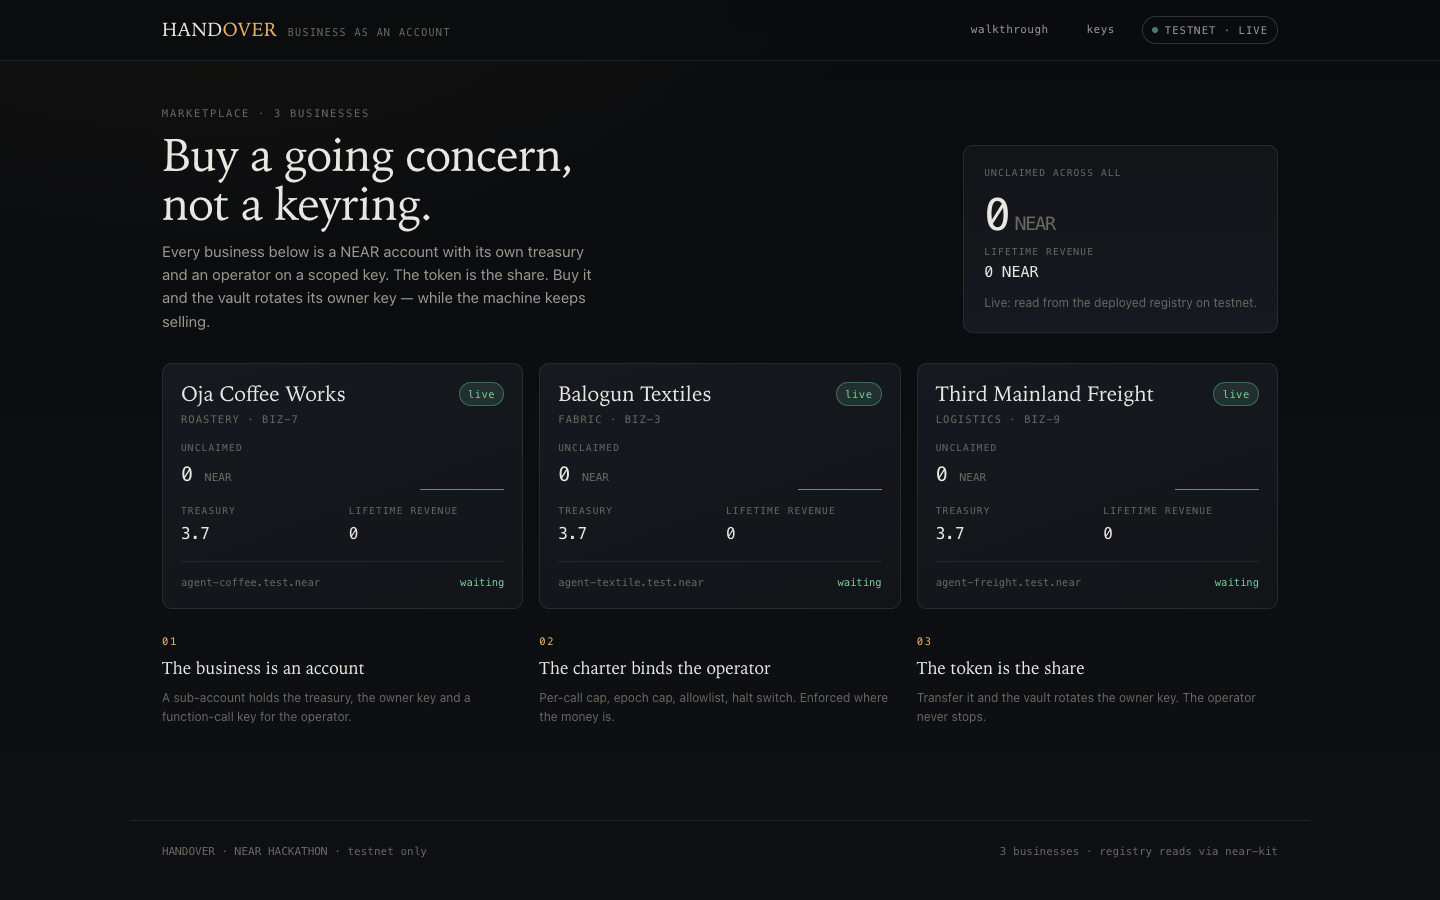
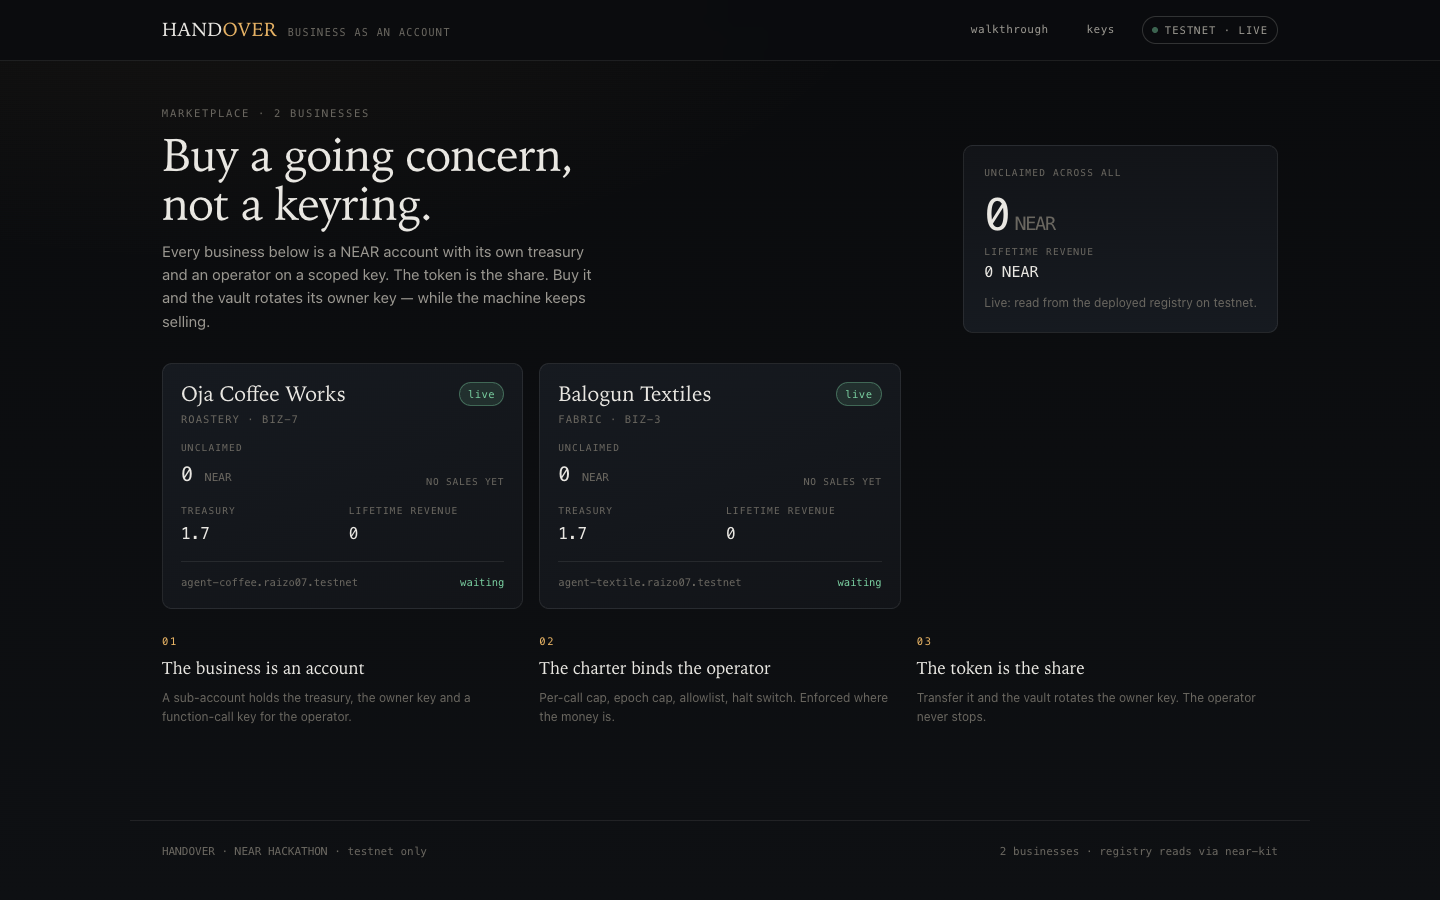
deploy to testnet: registry + two businesses live
- reg.raizo07.testnet deployed (214 KB), vault code stored (162 KB)
- biz-7 and biz-3 minted as real sub-accounts with owner + operator keys
- MIN_MINT_DEPOSIT lowered 4 -> 2 NEAR after measuring: a vault's 162 KB wasm
  costs ~1.66 NEAR of storage stake, so 4 was over-charging by half
- deploy script: --businesses N to seed within a balance, fixed done-message
- live mode verified against the testnet registry in a headless browser
- README/DEPLOYED: real addresses, measured costs, honest '2 of 3 seeded'

diff --git a/contracts/registry/src/lib.rs b/contracts/registry/src/lib.rs
@@ -19,8 +19,10 @@ use near_sdk::{
 };
 
 /// Deposit required to mint. Covers sub-account creation + vault wasm storage + state.
-/// The real cost is measured after deployment and published in the README.
-const MIN_MINT_DEPOSIT: u128 = 4_000_000_000_000_000_000_000_000; // 4 NEAR
+/// Measured on testnet 2026-11-10: the vault wasm is 162 KB, i.e. ~1.62 NEAR of storage
+/// stake at 1 NEAR / 100 KB, plus the account and its state. 2 NEAR is that cost with a
+/// little room left in the vault as working balance.
+const MIN_MINT_DEPOSIT: u128 = 2_000_000_000_000_000_000_000_000; // 2 NEAR
 /// Attached to `set_holder` so the vault can pay for the new access key's storage.
 const ROTATION_DEPOSIT: u128 = 50_000_000_000_000_000_000_000; // 0.05 NEAR
 const OPERATOR_ALLOWANCE: u128 = 500_000_000_000_000_000_000_000; // 0.5 NEAR

diff --git a/README.md b/README.md
@@ -5,11 +5,19 @@
 *The rulebook a business runs under is called its **charter**. The repo directory keeps an
 older name; everything user-facing says HANDOVER.*
 
-> **Status — read this first.** The two contracts are written and tested (28 Rust tests,
-> including 4 that deploy real wasm into a real NEAR VM). The frontend is built and runs on
-> a local simulation of those contracts. **Nothing is deployed to testnet yet** — there is
-> no live contract address in this repo, and this README does not claim one. The
-> "real vs simulated" section below is exact.
+> **Status — read this first.** Both contracts are written and tested (28 Rust tests,
+> including 4 that deploy real wasm into a real NEAR VM), and they are **deployed on
+> testnet**:
+>
+> | | |
+> |---|---|
+> | Registry | [`reg.raizo07.testnet`](https://testnet.nearblocks.io/address/reg.raizo07.testnet) |
+> | Businesses | [`biz-7.reg.raizo07.testnet`](https://testnet.nearblocks.io/address/biz-7.reg.raizo07.testnet) · [`biz-3.reg.raizo07.testnet`](https://testnet.nearblocks.io/address/biz-3.reg.raizo07.testnet) |
+> | Deployer | `raizo07.testnet` |
+>
+> The frontend runs against seeded demo data by default and reads this registry when
+> `VITE_REGISTRY_CONTRACT` is set. No mainnet contract exists — the "real vs simulated"
+> section below is exact.
 
 ![Marketplace](docs/screens/marketplace.png)
 
@@ -62,27 +70,31 @@ Requires Node 20+ and Rust stable. No wallet, no faucet, no funds.
    `make demo` (or `cd web && npm ci && npm run dev` for the dev server)
    → opens `http://localhost:4173`: three businesses, a `DEMO DATA` banner, no wallet prompt.
 
-3. **Watch the charter block the agent**
+3. **See the live testnet registry instead of demo data**
+   `VITE_REGISTRY_CONTRACT=reg.raizo07.testnet npm run build` (in `web/`)
+   → the badge changes to `TESTNET · LIVE` and the businesses come from chain, not fixtures.
+
+4. **Watch the charter block the agent**
    On `/b/biz-7`, drag the *per-call cap* slider to about `0.20` →
    the line under it changes live to "the operator's next 0.31 NEAR payment **is rejected
    (E20)**". Press **replay operator** → the spend is rejected, a receipt drawer opens with
    the reverted call, and the activity feed records a struck-through row.
 
-4. **Halve the cap, then spend inside it**
+5. **Halve the cap, then spend inside it**
    Set the cap to `0.50`, press **replay operator** → the payment settles, the epoch meter
    advances. The same button, two outcomes, decided by one number.
 
-5. **Halt the agent**
+6. **Halt the agent**
    Press **halt operator** → the receipt shows `DeleteKey(...)`. Press **replay operator**
    again → `E23`, because the key no longer exists. Press **resume** to re-arm it.
 
-6. **Buy a business**
+7. **Buy a business**
    Press **sell this business** on any business → generate an owner key (a real ed25519
    keypair in your browser), **download it** (the flow blocks until you do), sign →
    the rotation settles in two beats: `rotation_pending`, then `rotation_applied`, and the
    page states what the seller now sees: `Access key does not exist`.
 
-7. **Inspect any receipt**
+8. **Inspect any receipt**
    Every action opens a drawer with the `EVENT_JSON` the contract emits and the action list.
    No number in the UI is unexplained.
 
@@ -96,11 +108,14 @@ make deploy-sandbox  # full rehearsal against a local NEAR node
 make deploy          # real testnet run, reading .env
 ```
 
-The sandbox rehearsal is the one I have executed: it deploys the registry (214 KB), stores
-the vault wasm in registry state (162 KB), mints three businesses — each a real sub-account
-with a vault, a full-access owner key and a function-call operator key — then reads all of it
-back. Pointing the app at that node with `VITE_REGISTRY_CONTRACT` renders the same data from
-chain:
+It has now been run for real on testnet: registry `reg.raizo07.testnet` (214 KB wasm), vault
+wasm stored in registry state (162 KB), and **two** businesses minted. Measured cost per
+business: **≈1.66 NEAR** of storage for the vault contract (166 KB) plus the account itself;
+the third business is unseeded only because the deployer account had 10 NEAR and each mint
+takes 2. Fund it with ~3 more NEAR and `make deploy` mints the third (the script is
+idempotent and skips what already exists).
+
+The same app pointed at that registry with `VITE_REGISTRY_CONTRACT` renders live chain data:
 
 ![Live mode](docs/screens/live.png)
 
@@ -118,7 +133,7 @@ named parent.
 | Browser app | **Real** React/Vite build, served from `dist/`. |
 | Chain reads in the browser | **Verified.** Set `VITE_REGISTRY_CONTRACT` (and `VITE_RPC_URL` for a local node) and the app reads the registry through `near-kit`. Rehearsed end-to-end against a local NEAR node: three businesses, real operator accounts, no demo banner. |
 | Chain writes in the browser | **Not wired.** Writes show "needs a connected wallet" instead of pretending. |
-| Deployed contracts | **None still.** The deploy script is written, rehearsed on a local node, and has not been run against testnet yet — so no address in this repository is live. |
+| Deployed contracts | **Real, on testnet.** Registry `reg.raizo07.testnet` with two businesses minted. Addresses in [docs/DEPLOYED.md](docs/DEPLOYED.md). |
 
 The demo client enforces `E20` (per-call cap), `E21` (epoch cap), `E22` (allowlist), `E23`
 (halted), `E27` (claim cooldown), `E28` (nothing to claim), `E29` (rules timelock) and `E32`

diff --git a/docs/DEPLOYED.md b/docs/DEPLOYED.md
@@ -1,0 +1,30 @@
+# Deployed addresses
+
+Generated by `scripts/deploy.mjs` on 2026-11-10T06:36:03.059Z. Nothing here is mainnet.
+
+| Item | Value |
+| --- | --- |
+| Network | `testnet` |
+| Deployer | `raizo07.testnet` |
+| Registry | `reg.raizo07.testnet` |
[2 lines of base64/hex data omitted]
+
+## Businesses
+
+| token_id | vault | holder | operator |
+| --- | --- | --- | --- |
+| `biz-7` | `biz-7.reg.raizo07.testnet` | `raizo07.testnet` | `agent-coffee.raizo07.testnet` |
+| `biz-3` | `biz-3.reg.raizo07.testnet` | `raizo07.testnet` | `agent-textile.raizo07.testnet` |
+
+Owner key on every vault: `ed25519:hpbcHHwWHNwF43JDkzK4HC16jHZthmY6jV5ywQ1YhC7` (the deployer's key).
+Operator keys are per-business function-call keys stored in `deploy-out/keys.json`.
+
+## Point the frontend at it
+
+```
+VITE_REGISTRY_CONTRACT=reg.raizo07.testnet
+```
+
+Put that in `.env` (not `.env.example`) and rebuild the web app. With it set the
+marketplace reads the chain instead of the demo fixtures.
